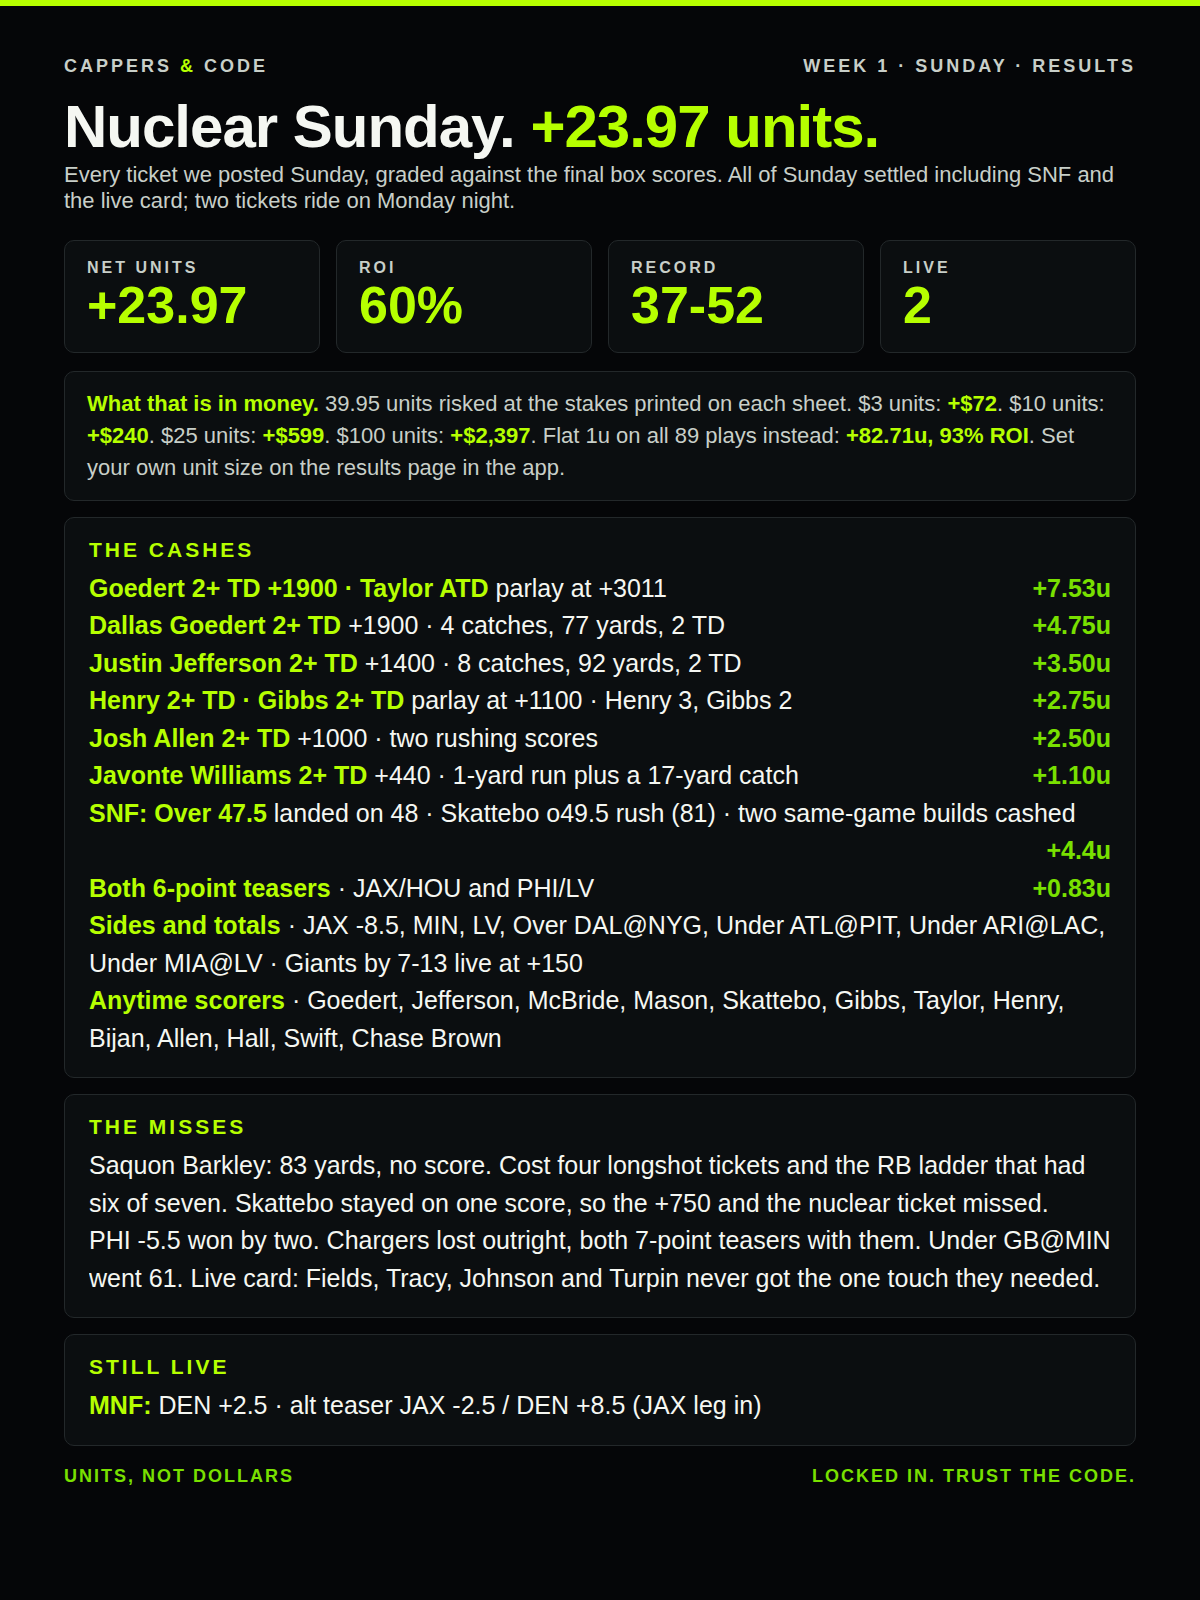
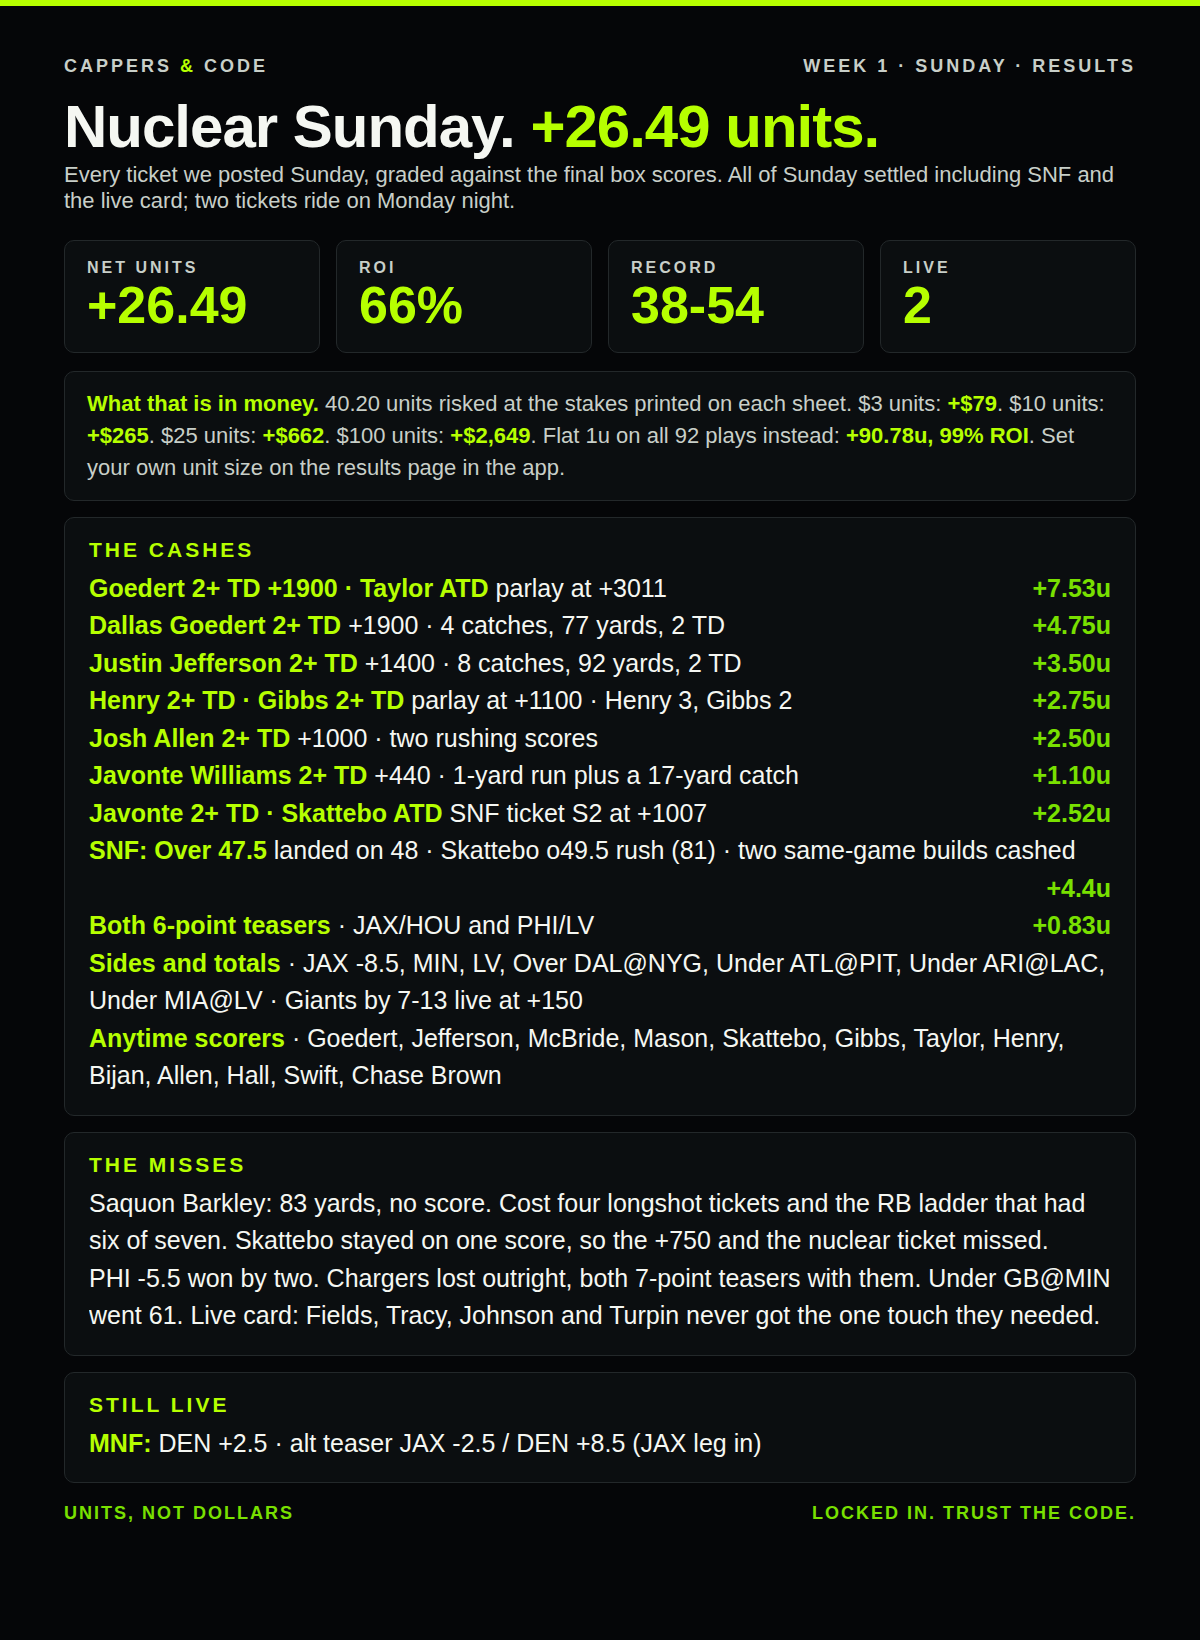
Results audit: grade the missed SNF S2 ticket, split the total ladder into rungs
Audited every ticket printed on the four sheets against the ledger. One posted
ticket had never been graded: SNF S2, Javonte 2+ TD +440 and Skattebo ATD +105
at +1007. Both legs hit, so that is +2.52u at the 0.25u parlay stake.

Also split the game-total ladder into the three 0.1u rungs it was posted as
(+150 / +226 / +380, all losers). Same money, but the ledger now mirrors the
sheets ticket for ticket.

Sunday final: 38-54, 40.20u risked, +26.49u, 66% ROI. Flat 1u on all 92: +90.78u.
Graphics and social cards re-rendered with the corrected numbers.

Claude-Session: https://claude.ai/code/session_01QLorhy8pwXBVsprT2JzAqk

diff --git a/site/sheets/w01-results-social.html b/site/sheets/w01-results-social.html
@@ -41,17 +41,18 @@
     <div class="brand"><span>CAPPERS <b>&amp;</b> CODE</span><span>WEEK 1 · SUNDAY</span></div>
     <div class="hero">
       <div class="kicker">NUCLEAR SUNDAY</div>
-      <h1><span>+19.95</span> units</h1>
-      <div class="roi"><b>81% ROI</b> on everything we posted · settled through 4:25</div>
+      <h1><span>+26.49</span> units</h1>
+      <div class="roi"><b>66% ROI</b> on everything we posted · Sunday settled in full</div>
     </div>
     <div class="list">
       <div class="row"><div class="l"><b>Goedert 2+ TD · Taylor ATD</b><small>parlay at +3011</small></div><div class="u">+7.53u</div></div>
       <div class="row"><div class="l"><b>Dallas Goedert 2+ TD</b><small>+1900 · 2 TD</small></div><div class="u">+4.75u</div></div>
       <div class="row"><div class="l"><b>Justin Jefferson 2+ TD</b><small>+1400 · 2 TD</small></div><div class="u">+3.50u</div></div>
       <div class="row"><div class="l"><b>Henry 2+ · Gibbs 2+</b><small>parlay at +1100 · Henry 3, Gibbs 2</small></div><div class="u">+2.75u</div></div>
+      <div class="row"><div class="l"><b>Javonte 2+ TD · Skattebo ATD</b><small>SNF ticket at +1007</small></div><div class="u">+2.52u</div></div>
       <div class="row"><div class="l"><b>Josh Allen 2+ TD</b><small>+1000 · 2 rushing TD</small></div><div class="u">+2.50u</div></div>
     </div>
-    <div class="small">Plus both 6-point teasers, JAX -8.5, MIN, LV and three Unders. Skattebo and Javonte still live on SNF.</div>
+    <div class="small">Plus both 6-point teasers, JAX -8.5, MIN, LV and three Unders. At $100 units that is +$2,649. DEN +2.5 rides Monday.</div>
   </div>
   <div class="foot"><span>UNITS, NOT DOLLARS</span><span>LOCKED IN. TRUST THE CODE.</span></div>
 </section>
@@ -61,19 +62,20 @@
     <div class="brand"><span>CAPPERS <b>&amp;</b> CODE</span><span>WEEK 1 · SUNDAY</span></div>
     <div class="hero">
       <div class="kicker">NUCLEAR SUNDAY</div>
-      <h1><span>+19.95</span><br/>units</h1>
-      <div class="roi"><b>81% ROI</b> on everything we posted.<br/>Settled through the 4:25 window.</div>
+      <h1><span>+26.49</span><br/>units</h1>
+      <div class="roi"><b>66% ROI</b> on everything we posted.<br/>38-54 across 92 graded tickets.</div>
     </div>
     <div class="list">
       <div class="row"><div class="l"><b>Goedert 2+ TD · Taylor ATD</b><small>parlay at +3011</small></div><div class="u">+7.53u</div></div>
       <div class="row"><div class="l"><b>Dallas Goedert 2+ TD</b><small>+1900 · 4 for 77, 2 TD</small></div><div class="u">+4.75u</div></div>
       <div class="row"><div class="l"><b>Justin Jefferson 2+ TD</b><small>+1400 · 8 for 92, 2 TD</small></div><div class="u">+3.50u</div></div>
       <div class="row"><div class="l"><b>Henry 2+ · Gibbs 2+</b><small>parlay at +1100 · Henry 3, Gibbs 2</small></div><div class="u">+2.75u</div></div>
+      <div class="row"><div class="l"><b>Javonte 2+ TD · Skattebo ATD</b><small>SNF ticket at +1007</small></div><div class="u">+2.52u</div></div>
       <div class="row"><div class="l"><b>Josh Allen 2+ TD</b><small>+1000 · 2 rushing TD</small></div><div class="u">+2.50u</div></div>
       <div class="row"><div class="l"><b>Both 6-point teasers</b><small>JAX / HOU and PHI / LV</small></div><div class="u">+0.83u</div></div>
       <div class="row"><div class="l"><b>Sides and totals</b><small>JAX -8.5 · MIN · LV · Under ATL@PIT · Under ARI@LAC · Under MIA@LV</small></div><div class="u">6-4</div></div>
     </div>
-    <div class="small">Skattebo 2+ TD, Javonte 2+ TD and the Over still live on Sunday night. Every ticket, graded, in the app.</div>
+    <div class="small">Set your own unit size on the results page: $3, $10, $25 or $100. Every ticket, graded, in the app.</div>
   </div>
   <div class="foot"><span>UNITS, NOT DOLLARS</span><span>LOCKED IN. TRUST THE CODE.</span></div>
 </section>

diff --git a/site/sheets/w01-results.html b/site/sheets/w01-results.html
@@ -35,17 +35,17 @@
 
 <section class="card" id="results">
   <div class="brand"><span>CAPPERS <b>&amp;</b> CODE</span><span>WEEK 1 · SUNDAY · RESULTS</span></div>
-  <h1>Nuclear Sunday. <span>+23.97 units.</span></h1>
+  <h1>Nuclear Sunday. <span>+26.49 units.</span></h1>
   <p class="sub">Every ticket we posted Sunday, graded against the final box scores. All of Sunday settled including SNF and the live card; two tickets ride on Monday night.</p>
 
   <div class="stats">
-    <div class="stat"><div class="l">NET UNITS</div><div class="v">+23.97</div></div>
-    <div class="stat"><div class="l">ROI</div><div class="v">60%</div></div>
-    <div class="stat"><div class="l">RECORD</div><div class="v">37-52</div></div>
+    <div class="stat"><div class="l">NET UNITS</div><div class="v">+26.49</div></div>
+    <div class="stat"><div class="l">ROI</div><div class="v">66%</div></div>
+    <div class="stat"><div class="l">RECORD</div><div class="v">38-54</div></div>
     <div class="stat"><div class="l">LIVE</div><div class="v">2</div></div>
   </div>
 
-  <div class="money"><b>What that is in money.</b> 39.95 units risked at the stakes printed on each sheet. $3 units: <b>+$72</b>. $10 units: <b>+$240</b>. $25 units: <b>+$599</b>. $100 units: <b>+$2,397</b>. Flat 1u on all 89 plays instead: <b>+82.71u, 93% ROI</b>. Set your own unit size on the results page in the app.</div>
+  <div class="money"><b>What that is in money.</b> 40.20 units risked at the stakes printed on each sheet. $3 units: <b>+$79</b>. $10 units: <b>+$265</b>. $25 units: <b>+$662</b>. $100 units: <b>+$2,649</b>. Flat 1u on all 92 plays instead: <b>+90.78u, 99% ROI</b>. Set your own unit size on the results page in the app.</div>
 
   <div class="box"><h2>THE CASHES</h2>
     <ul class="bets">
@@ -55,6 +55,7 @@
       <li><b>Henry 2+ TD · Gibbs 2+ TD</b> parlay at +1100 · Henry 3, Gibbs 2 <span class="u">+2.75u</span></li>
       <li><b>Josh Allen 2+ TD</b> +1000 · two rushing scores <span class="u">+2.50u</span></li>
       <li><b>Javonte Williams 2+ TD</b> +440 · 1-yard run plus a 17-yard catch <span class="u">+1.10u</span></li>
+      <li><b>Javonte 2+ TD · Skattebo ATD</b> SNF ticket S2 at +1007 <span class="u">+2.52u</span></li>
       <li><b>SNF: Over 47.5</b> landed on 48 · Skattebo o49.5 rush (81) · two same-game builds cashed <span class="u">+4.4u</span></li>
       <li><b>Both 6-point teasers</b> · JAX/HOU and PHI/LV <span class="u">+0.83u</span></li>
       <li><b>Sides and totals</b> · JAX -8.5, MIN, LV, Over DAL@NYG, Under ATL@PIT, Under ARI@LAC, Under MIA@LV · Giants by 7-13 live at +150</li>
